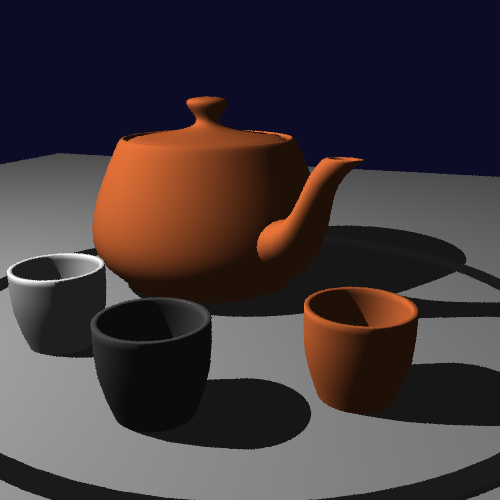
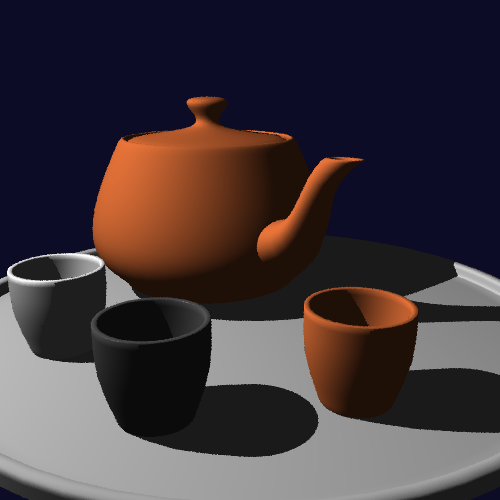
update

diff --git a/KonzepteVonProgrammiersprachen/Versuch1/doc/Projektbericht.tex b/KonzepteVonProgrammiersprachen/Versuch1/doc/Projektbericht.tex
@@ -328,7 +328,7 @@ Erreicht die Traversierung einen Blattknoten, werden die enthaltenen Dreiecke mi
         \midrule
         Aufgabe 1: Brute-Force (Badouel) & 394279 & {1,0\times} \\
         Aufgabe 1: Brute-Force (M.-T.)   & 262182 & {1,50\times} \\
-        Aufgabe 2: k-d-Baum              & {--}   & {--} \\
+        Aufgabe 2: k-d-Baum              & 1337   & {294,9\times} \\
         Aufgabe 3: AVX Packet Tracing    & {--}   & {--} \\
         \bottomrule
     \end{tabular}
